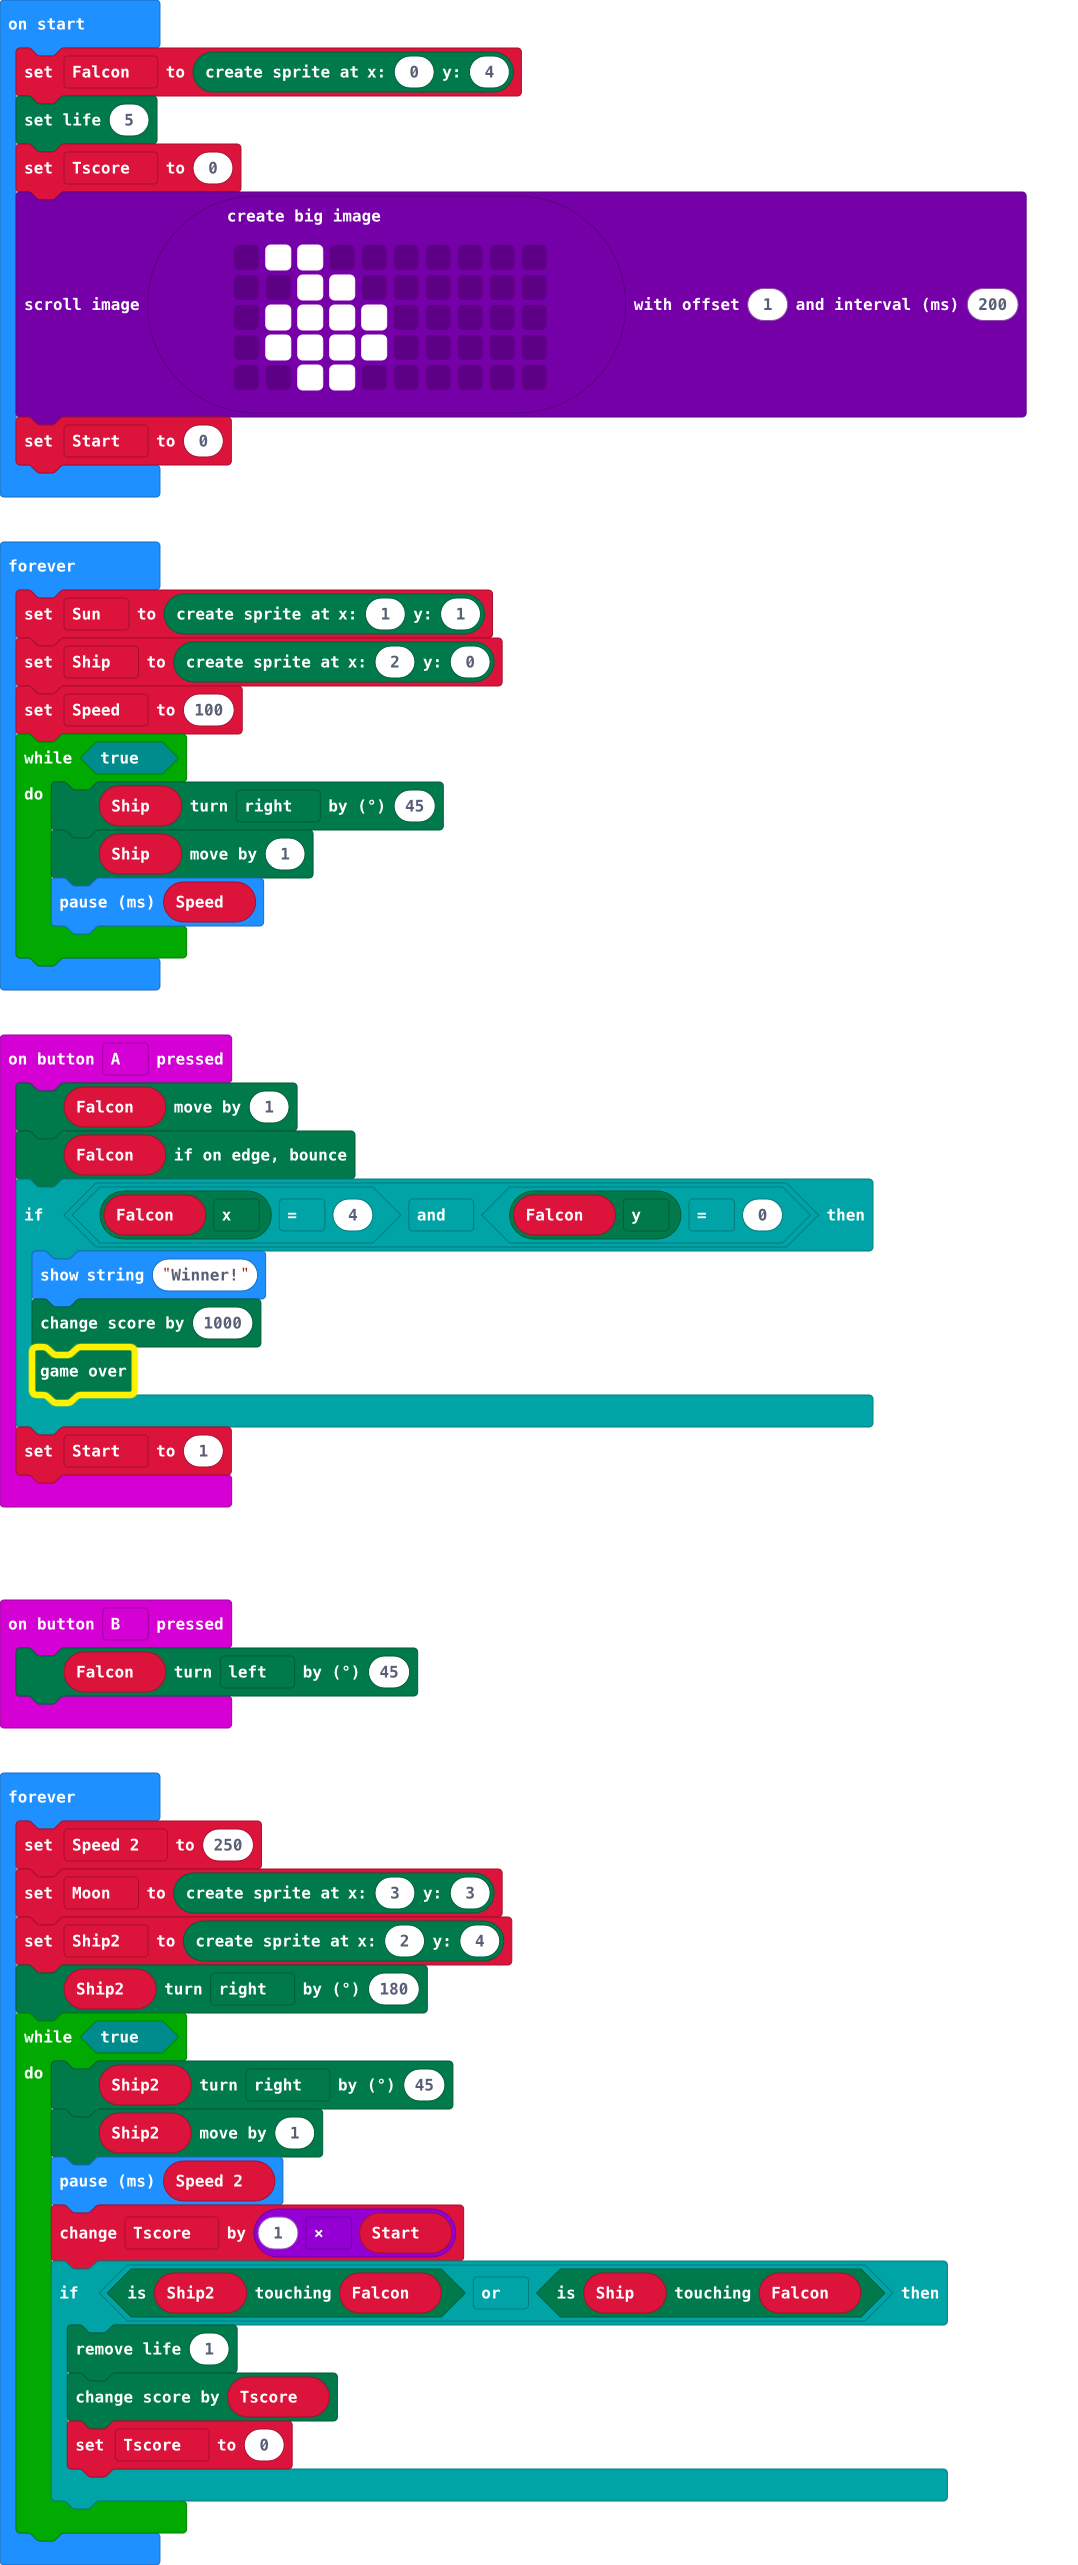
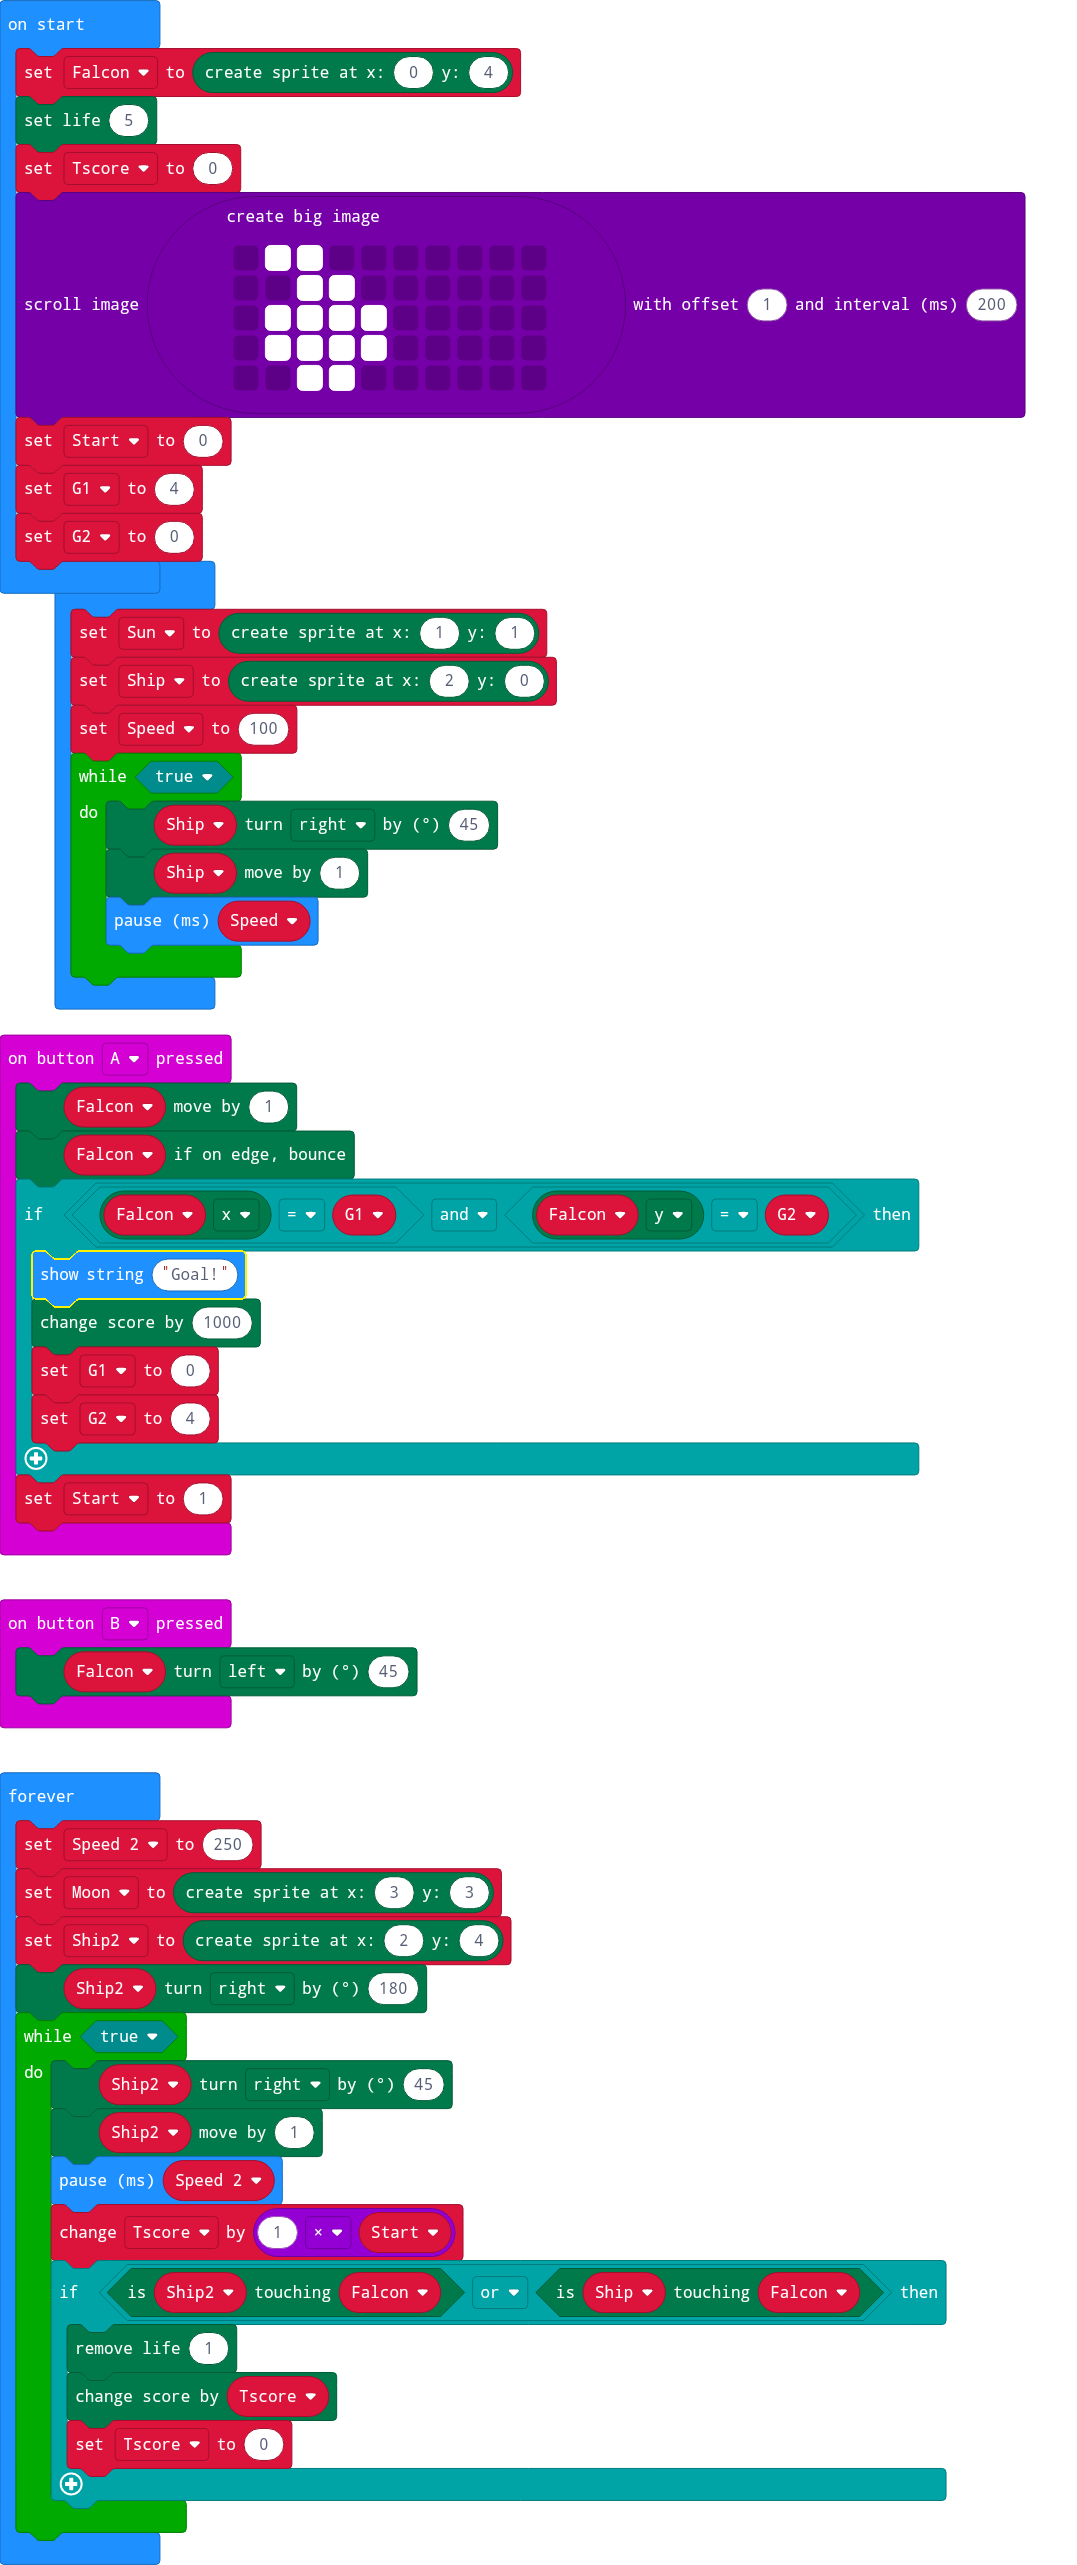
Update main.blocks, main.ts

diff --git a/main.ts b/main.ts
@@ -1,10 +1,11 @@
 input.onButtonPressed(Button.A, function () {
     Falcon.move(1)
     Falcon.ifOnEdgeBounce()
-    if (Falcon.get(LedSpriteProperty.X) == 4 && Falcon.get(LedSpriteProperty.Y) == 0) {
-        basic.showString("Winner!")
+    if (Falcon.get(LedSpriteProperty.X) == G1 && Falcon.get(LedSpriteProperty.Y) == G2) {
+        basic.showString("Goal!")
         game.addScore(1000)
-        game.gameOver()
+        G1 = 0
+        G2 = 4
     }
     Start = 1
 })
@@ -17,6 +18,8 @@ let Speed_2 = 0
 let Speed = 0
 let Ship: game.LedSprite = null
 let Sun: game.LedSprite = null
+let G2 = 0
+let G1 = 0
 let Start = 0
 let Falcon: game.LedSprite = null
 Falcon = game.createSprite(0, 4)
@@ -30,6 +33,8 @@ images.createBigImage(`
     . . # # . . . . . .
     `).scrollImage(1, 200)
 Start = 0
+G1 = 4
+G2 = 0
 basic.forever(function () {
     Sun = game.createSprite(1, 1)
     Ship = game.createSprite(2, 0)
